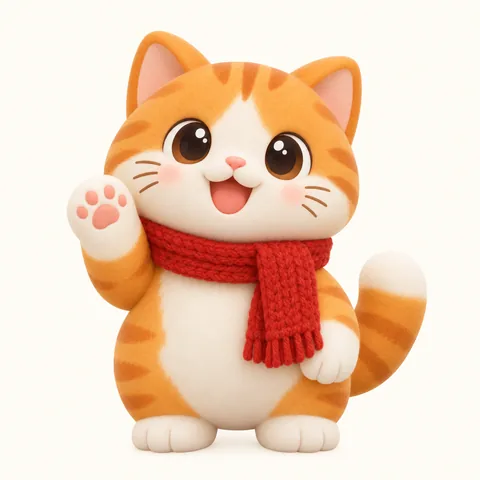
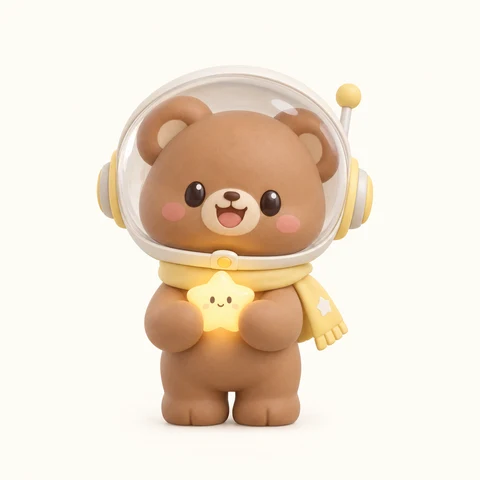
Replace uniform cat previews with distinct showcase art for all 12 styles

diff --git a/src/components/studio/StudioWorkspace.tsx b/src/components/studio/StudioWorkspace.tsx
@@ -931,13 +931,18 @@ export function StudioWorkspace({
       {/* Step 2: Curated Art Style */}
       <section className="sticker-card p-6 space-y-4">
         <div className="flex flex-wrap items-center justify-between gap-3">
-          <div className="flex items-center gap-2.5">
+          <div className="flex flex-wrap items-center gap-x-2.5 gap-y-1">
             <span className="flex h-7 w-7 items-center justify-center rounded-full border-2 border-[#1E1B2E] bg-[#FFF3C4] text-xs font-black">
               2
             </span>
             <h2 className="text-lg font-black">
               {isZh ? "选择精选锁定画风" : "Choose Curated Art Style"}
             </h2>
+            <span className="text-xs font-medium text-[#645E78]">
+              {isZh
+                ? "预览仅展示画风质感，主角以你的照片或描述为准"
+                : "Previews show art style only—your subject comes from Step 1"}
+            </span>
           </div>
 
           {/* Style Category Filter Pills */}
